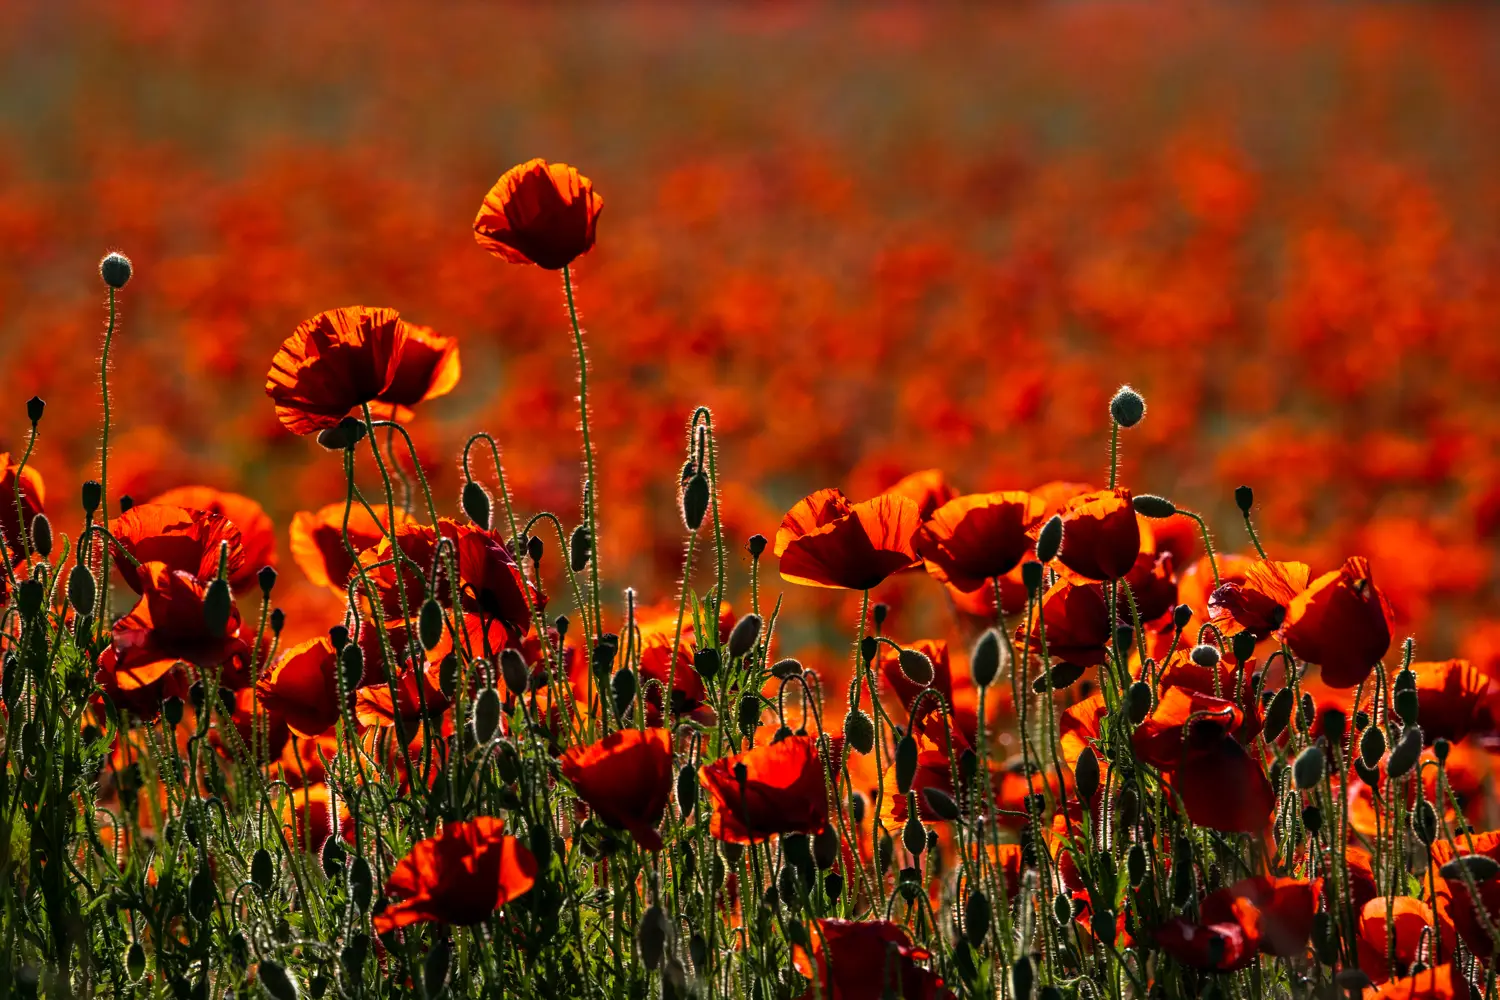
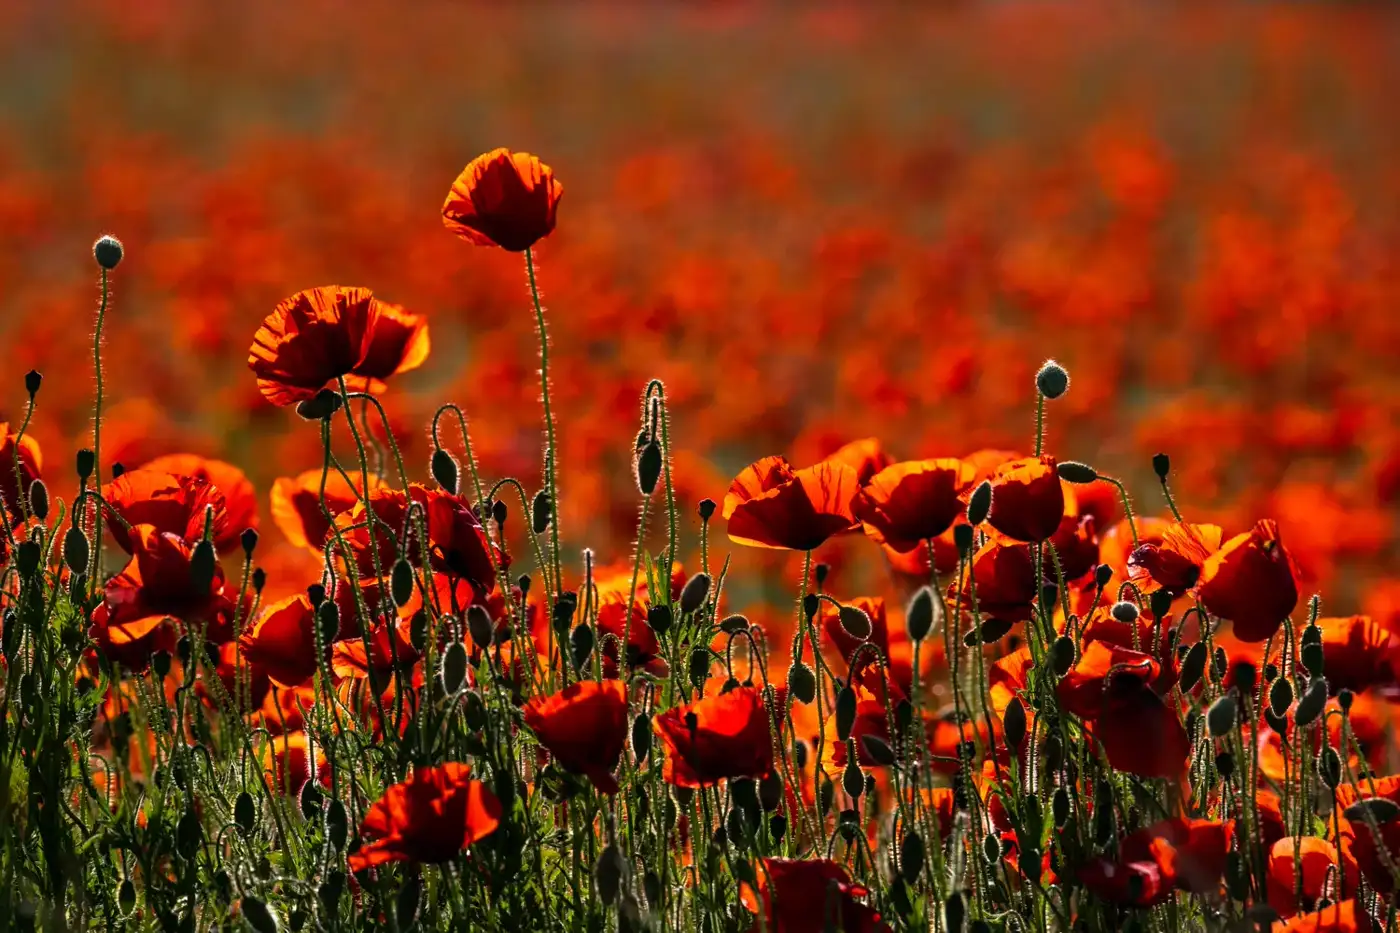
SEO + perf polish for PageSpeed
- Drop dangling ru hreflang (ru is not a routed locale) so canonical and
  hreflang agree
- Give the service-card "Uzzināt vairāk" links descriptive aria-labels
- Add width/height + lazy loading to the raw team/credential <img>s
- Recompress the heaviest banner photos (planosana, nodokli) to trim payload

diff --git a/src/components/sections/Credentials.tsx b/src/components/sections/Credentials.tsx
@@ -38,7 +38,7 @@ export default function Credentials() {
                 <article className="credential">
                   <div className="credential-mark">
                     {emblem ? (
-                      <img className="credential-emblem" src={emblem.src} alt={emblem.alt} />
+                      <img className="credential-emblem" src={emblem.src} alt={emblem.alt} width={168} height={80} loading="lazy" />
                     ) : (
                       <span className="credential-plate">
                         <span className="credential-plate-top">Licencēts</span>

diff --git a/src/components/sections/Team.tsx b/src/components/sections/Team.tsx
@@ -154,7 +154,7 @@ export default function Team({ showHeader = true }: { showHeader?: boolean }) {
             <article className="person">
               <div className="person-media">
                 {person.photo ? (
-                  <img src={person.photo} alt={person.name} className="person-photo" />
+                  <img src={person.photo} alt={person.name} className="person-photo" width={400} height={500} loading="lazy" />
                 ) : (
                   <span className="person-monogram" aria-hidden="true">{initials(person.name)}</span>
                 )}

diff --git a/src/components/sections/Services.tsx b/src/components/sections/Services.tsx
@@ -152,6 +152,7 @@ export default function Services() {
               </Reveal>
               <a
                 href={`/${locale}/pakalpojumi/${item.slug}`}
+                aria-label={`${t('learnMore')}: ${item.name}`}
                 style={{
                   fontFamily: 'var(--font-body)',
                   fontSize: 12,
